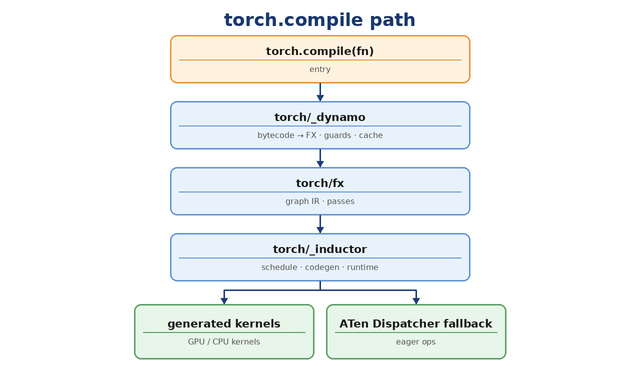
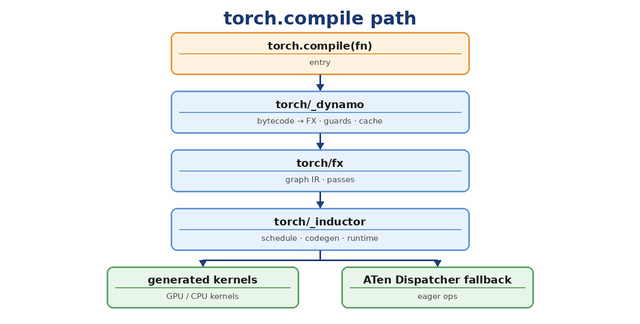
Merge architecture, layer map, and compile path into one tree.
README §1 now shows a single figure covering Python → compile → bridge → libs → runtime.

Changed region(s): [[0.1562, 0.0309, 0.8438, 0.9568]]

diff --git a/README.md b/README.md
@@ -35,17 +35,9 @@ Path names in the notes refer to a standard upstream PyTorch source tree.
 
 ## 1. Architecture
 
-<img src="docs/figures/pytorch_architecture.jpg" width="640" alt="PyTorch composition" />
+<img src="docs/figures/pytorch_architecture.jpg" width="640" alt="PyTorch architecture" />
 
-| Layer | Path |
-| --- | --- |
-| Python | `torch/**` |
-| Compile | `_dynamo` → `fx` → `_inductor` |
-| Bridge | `torch/_C` ← `torch/csrc` |
-| Libs | `ATen` (ops + Dispatcher) · `c10` (Tensor/Storage/Device/allocator) |
-| Runtime | CUDA / NCCL / drivers |
-
-<img src="docs/figures/torch_compile_flow.jpg" width="640" alt="torch.compile" />
+One tree: **Python → Compile (`_dynamo` / `fx` / `_inductor`) → Bridge → Libs (c10 / ATen) → Runtime**, with compile falling back into the Dispatcher when needed.
 
 ---
 

diff --git a/docs/figures/README.md b/docs/figures/README.md
@@ -7,8 +7,8 @@ top-down **tree** layout, pastel fills with matching borders, rounded boxes, int
 
 | File | Topic |
 | --- | --- |
-| `pytorch_architecture.jpg` / `.svg` | Layered composition + `torch.compile` |
-| `torch_compile_flow.jpg` / `.svg` | `_dynamo` → `fx` → `_inductor` |
+| `pytorch_architecture.jpg` | Full tree: Python → Compile → Bridge → Libs → Runtime |
+| `torch_compile_flow.jpg` | Compile subtree only (`_dynamo` → `fx` → `_inductor`) |
 | `dispatcher_mechanism.jpg` | OperatorHandle, key set, redispatch loop |
 | `dispatcher_backend_routing.jpg` | DispatchKey → Autograd / CUDA / CPU / PrivateUse1 |
 | `dispatcher_eager_stack.jpg` / `.svg` | Eager `torch.add` stack |
